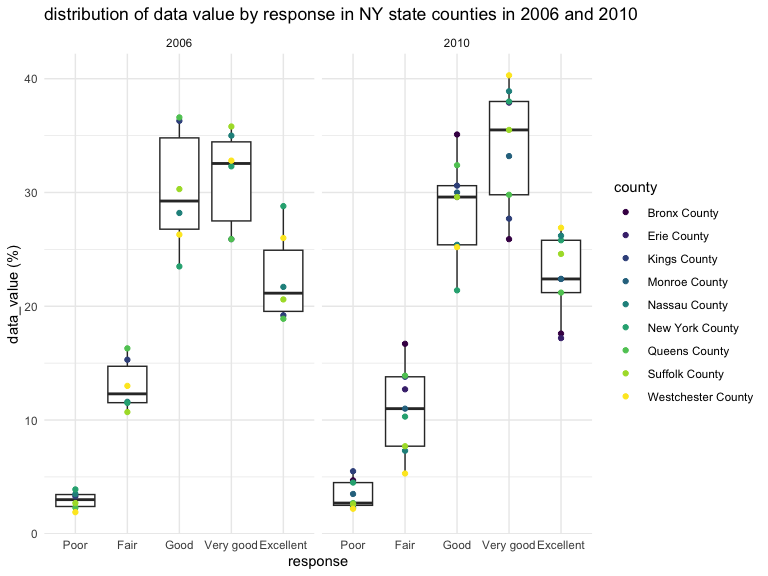
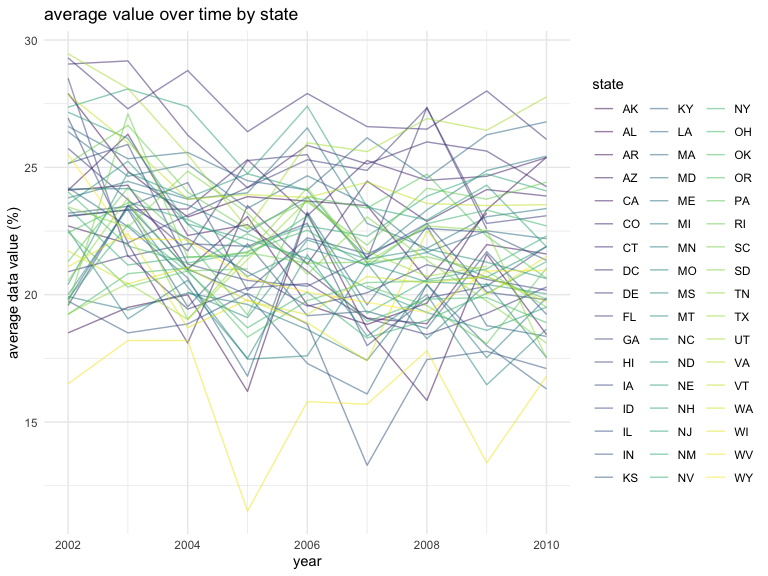
fix cleaning data set, making first plot

diff --git a/p8105_hw3_nn2477.md b/p8105_hw3_nn2477.md
@@ -3,7 +3,7 @@ hw3_nn2477
 Nhu Nguyen
 2023-10-11
 
-## getting the number of unique aisles
+## problem 1
 
 ``` r
 data("instacart")
@@ -195,8 +195,11 @@ brfss_excellent <- brfss_df %>%
     ## `summarise()` has grouped output by 'year'. You can override using the
     ## `.groups` argument.
 
+This data set has 443 observations that responded “Excellent” when asked
+about their general health
+
 ``` r
-  ggplot(brfss_excellent, aes(x = year, y = mean_data_value, group = state, color = state)) +
+ggplot(brfss_excellent, aes(x = year, y = mean_data_value, group = state, color = state)) +
   geom_line(alpha = .5) +
   labs(
     title = "average value over time by state",
@@ -206,7 +209,13 @@ brfss_excellent <- brfss_df %>%
     theme_minimal()
 ```
 
-<img src="p8105_hw3_nn2477_files/figure-gfm/unnamed-chunk-10-1.png" width="90%" />
+<img src="p8105_hw3_nn2477_files/figure-gfm/unnamed-chunk-11-1.png" width="90%" />
+
+this “spaghetti” plot shows a general trend of data value points
+decreasing over time for each state. the average data value ranges from
+17.5 to 27.5 capturing most points, however some average data values do
+fall outside this range. specifically, WV appears to be a visual outlier
+in this plot.
 
 ## making two panel plot for NYC data
 
@@ -230,7 +239,10 @@ brfss_ny_df %>%
   theme_minimal()
 ```
 
-<img src="p8105_hw3_nn2477_files/figure-gfm/unnamed-chunk-11-1.png" width="90%" />
+<img src="p8105_hw3_nn2477_files/figure-gfm/unnamed-chunk-12-1.png" width="90%" />
+
+For both 2006 and 2010, the response “good” and “very good” has the
+highest data values while the response “poor” had the lowest data value.
 
 ## problem 3
 
@@ -264,7 +276,7 @@ covar_df =
     ## ℹ Specify the column types or set `show_col_types = FALSE` to quiet this message.
 
 ``` r
-mims_df = inner_join(covar_df, accel_df, by = "seqn")
+mims_df = left_join(covar_df, accel_df, by = "seqn")
 ```
 
 men/women by education and age distribution
@@ -275,22 +287,100 @@ education_mims_df <- mims_df %>%
   summarise(count = n()) %>% 
   pivot_wider(
     names_from = sex,
-    values_from = count) 
+    values_from = count)
 ```
 
     ## `summarise()` has grouped output by 'sex'. You can override using the `.groups`
     ## argument.
 
 ``` r
-ggplot(mims_df, aes(x = sex, y = age)) + 
-  geom_boxplot() + 
-  geom_point(aes(color = sex)) +
-  facet_wrap(.~ education) +
+knitr::kable(education_mims_df, caption = "# of men and women in each education category")
+```
+
+| education              | female | male |
+|:-----------------------|-------:|-----:|
+| high school equivalent |     23 |   35 |
+| less than high school  |     28 |   27 |
+| more than high school  |     59 |   56 |
+
+\# of men and women in each education category
+
+the highest education both genders received was in the “more than high
+school” category.
+
+``` r
+ggplot(mims_df, aes(x = education, y = age, fill = sex)) + 
+  geom_boxplot(alpha = .5) + 
   labs(
     title = "age distribution by education and gender",
-    x = "gender",
+    x = "education category",
     y = "age"
   ) + theme_minimal()
 ```
 
-<img src="p8105_hw3_nn2477_files/figure-gfm/unnamed-chunk-13-1.png" width="90%" />
+<img src="p8105_hw3_nn2477_files/figure-gfm/unnamed-chunk-15-1.png" width="90%" />
+
+females, on average, appeared to be older in the “high school
+equivalent” category, whereas males, on average, appeared to be older in
+the “less than high school” and “more than high school” education
+category.
+
+## total activity over day plot
+
+aggregating min variable
+
+``` r
+total_activity_df <- mims_df %>% 
+  mutate(
+    total_activity = rowSums(across(c(min1:min1440)))
+  )
+```
+
+creating plots:
+
+``` r
+ggplot(total_activity_df, aes(x = age, y = total_activity, color = sex)) +
+  geom_point(alpha = .5) + 
+  facet_wrap(~education, ncol = 1) + 
+  geom_smooth(se = FALSE)+
+  labs(
+    title = "total activity vs age by education level", 
+    x = "age",
+    y = "total activity"
+  ) + 
+  theme_minimal()
+```
+
+    ## `geom_smooth()` using method = 'loess' and formula = 'y ~ x'
+
+<img src="p8105_hw3_nn2477_files/figure-gfm/unnamed-chunk-17-1.png" width="90%" />
+
+in all 3 education categories, on average, the total physical activity
+for both genders tend to decrease with overall age. for both “high
+school equivalent” and “more than high school” education category, women
+tend to be more active compared to their male counterparts (as seen in
+the trend lines). the greatest decline in trend line for both genders is
+in the “less than high school” education category.
+
+## activity over day plot
+
+``` r
+time_course_data <- total_activity_df %>% 
+  group_by(education, sex) %>% 
+  summarise(across(starts_with("min"), ~mean(.), .names = "mean_{.col}")) %>% 
+  pivot_longer(
+    cols = starts_with("mean"),
+    names_to = "time",
+    values_to = "mean") %>% 
+  mutate(time = substring(time, 9),
+         time = as.numeric(time))
+```
+
+    ## `summarise()` has grouped output by 'education'. You can override using the
+    ## `.groups` argument.
+
+``` r
+ggplot(time_course_data, aes(x = time, y = ))
+```
+
+<img src="p8105_hw3_nn2477_files/figure-gfm/unnamed-chunk-18-1.png" width="90%" />
